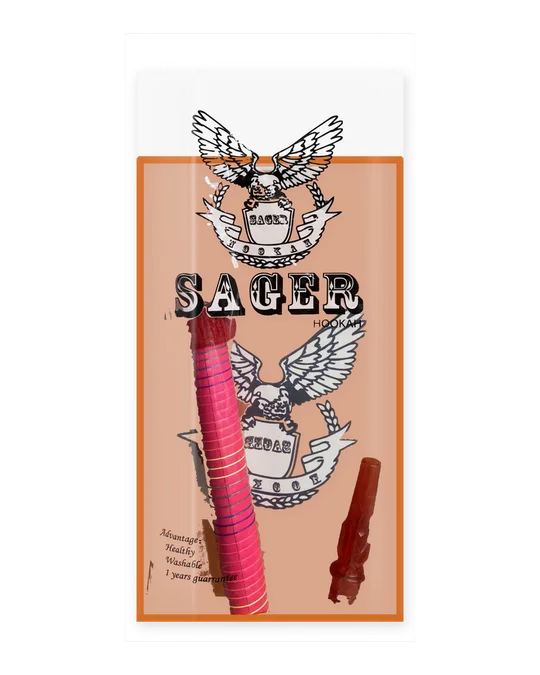
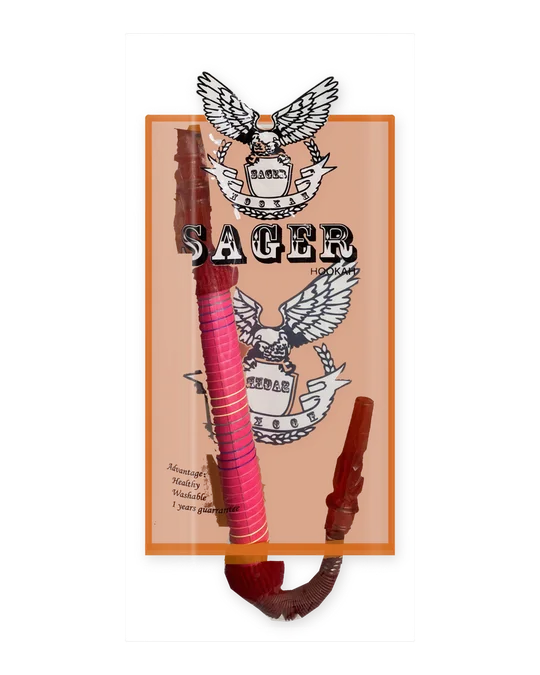
Hoses: clipping fixes on Sager, Super Al Ameer, Zanobia black; light-blue Starbuzz gets a photo
Owner 2026-11-27: some drawn-bag hoses kept old-bag background, cut square, or cut the hose off.
- Sager (OSS-120028): whole hose now (mouthpiece, handle, the bend below the card, far fitting);
  the white top slab was clear bag over the wall and is gone; the eagles stay as print.
- Super Al Ameer (OSS-120006): left edge follows the stem; the print runs under the top seal and
  fades into the bottom seal instead of the photo's square crop lines.
- Zanobia black (OSS-120029): old-bag film beside the card, in the bottom loop and a loose scrap removed.
- Starbuzz light blue (OSS-120032): the teal sibling's cut-out recoloured to the light-blue shade
  sampled from the shop's counter photo (card kept); hose-fix-2026-11-27.sql sets its img, photo
  'own', details.photo 'approved' and drops "no photo of its own yet" from its stock-check note.
Tools: cut.py ink_extra/area_add/drop_bright/drop_final/min_cc, compose.py top_cut/seal_fade
(other 24 configs render byte-identically). Not deployed.

Claude-Session: https://claude.ai/code/session_01E9pd4ZHmcwx6MYD1V7M6Jz

Changed region(s): [[0.237, 0.0933, 0.7704, 0.9333]]

diff --git a/store/tools/catalog/hose_drawnbag/recolour_lb.py b/store/tools/catalog/hose_drawnbag/recolour_lb.py
@@ -1,0 +1,48 @@
+"""Light-blue Starbuzz ribbed (OSS-120032): the teal sibling's cut (IMG_0549, same tube, stem and card) recoloured to the
+light-blue hose's own shade, sampled from the shop's group shot (Star_buzz_are_76.5_inches.jpg) and white-balanced on the
+bag's barcode label: Lab hue about 262, chroma about 18 (the photo has a violet LED cast, so the hue is the midpoint of the white-balanced samples) at the hose's lightness. Only teal/green pixels move; the card stays."""
+import numpy as np, cv2, json, shutil, os
+from pathlib import Path
+from PIL import Image
+WD = Path(os.environ.get("HOSE_WORK", ".")) / "hose-drawnbag"   # the work folder holding cut/ and cfg.d/, as plate.py
+src = np.asarray(Image.open(WD / "cut" / "IMG_0549.png")).copy()
+rgb, A = src[..., :3], src[..., 3]
+L = cv2.cvtColor(rgb, cv2.COLOR_RGB2LAB).astype(np.float32)
+a, b = L[..., 1] - 128, L[..., 2] - 128
+ch = np.hypot(a, b); hue = np.degrees(np.arctan2(b, a)) % 360
+m = (hue > 120) & (hue < 260) & (ch > 2.5)                      # the teal tube and its dark green stem
+pink = (ch > 15) & ((hue < 40) | (hue > 330)) & (A > 128)   # the round Starbuzz card stays as printed
+n, lbl, st, _ = cv2.connectedComponentsWithStats(pink.astype(np.uint8), 8)
+k = 1 + int(np.argmax(st[1:, cv2.CC_STAT_AREA]))
+pts = cv2.findNonZero((lbl == k).astype(np.uint8)); hull = cv2.convexHull(pts)
+card = np.zeros(A.shape, np.uint8); cv2.fillConvexPoly(card, hull, 1)
+x, y, w_, h_ = cv2.boundingRect(hull)
+card = cv2.dilate(card, np.ones((15, 15), np.uint8)) > 0
+ribbon = np.zeros(A.shape, bool); ribbon[y + int(0.6 * h_): y + int(1.08 * h_), max(0, x - int(0.2 * w_)): x + int(1.2 * w_)] = True
+keep = card | (ribbon & (ch < 9))
+m &= ~keep
+stem = m & (L[..., 0] < 110)
+# the stem is one solid part: take its largest dark piece, close it and fill it, so glare chips on it move too
+n2, l2, st2, _ = cv2.connectedComponentsWithStats(stem.astype(np.uint8), 8)
+big = l2 == 1 + int(np.argmax(st2[1:, cv2.CC_STAT_AREA]))
+big = cv2.morphologyEx(big.astype(np.uint8), cv2.MORPH_CLOSE, cv2.getStructuringElement(cv2.MORPH_ELLIPSE, (41, 41))) > 0
+from scipy import ndimage as nd
+stem = nd.binary_fill_holes(big) & (A > 60) & ~keep
+m |= stem
+w = np.maximum(np.clip((ch - 4) / 8, 0, 1), stem.astype(np.float32)) * m
+w = cv2.GaussianBlur(w.astype(np.float32), (0, 0), 1.2)
+H, C = np.radians(262.0), 18.0
+Lt = L[..., 0].copy()
+Ls = cv2.GaussianBlur(L[..., 0], (0, 0), 3)
+Lt = np.where(stem, 75 + np.minimum(L[..., 0], Ls + 12) * 0.7, L[..., 0] * 1.04 + 4)   # glare chips on the stem toned to its body   # the stem is pale translucent blue, not dark
+Cn = np.where(stem, C * 1.1, C * np.clip(ch / 17.0, 0.6, 1.3))
+out = L.copy()
+out[..., 0] = L[..., 0] * (1 - w) + np.clip(Lt, 0, 255) * w
+out[..., 1] = (a * (1 - w) + np.cos(H) * Cn * w) + 128
+out[..., 2] = (b * (1 - w) + np.sin(H) * Cn * w) + 128
+res = cv2.cvtColor(np.clip(out, 0, 255).astype(np.uint8), cv2.COLOR_LAB2RGB)
+Image.fromarray(np.dstack([res, A]), "RGBA").save(WD / "cut" / "SB_LIGHTBLUE.png")
+dst = Path(__file__).parent / "cfg.d" / "SB_LIGHTBLUE.json"
+if not dst.exists():   # framing as the teal sibling; never overwrite a tuned copy
+    shutil.copy(Path(__file__).parent / "cfg.d" / "IMG_0549.json", dst)
+print("stem px", int(stem.sum()), "moved px", int((w > 0.5).sum()))

diff --git a/store/tools/catalog/hose_drawnbag/cut.py b/store/tools/catalog/hose_drawnbag/cut.py
@@ -57,6 +57,8 @@ def cut(name):
     dC = chI - chB
     sh = L.shape
     area = poly_mask(sh, [c["area"]]) if "area" in c else inside
+    if c.get("area_add"):   # print that runs past the hand-read bag edge (onto the fold)
+        area = area | poly_mask(sh, c["area_add"])
 
     colour = (dC > c.get("chroma", 16))
     hue = np.degrees(np.arctan2(LI[..., 2] - 128, LI[..., 1] - 128)) % 360
@@ -85,6 +87,10 @@ def cut(name):
     big = small_cc(ink, c.get("ink_big", 200))
     near = cv2.dilate(big.astype(np.uint8), disk(45)) > 0
     ink = big | (small_cc(ink, 12) & near)
+    for ie in c.get("ink_extra", []):   # print over a shadowed stretch of wall: plain darkness test
+        z = poly_mask(sh, [ie["poly"]])
+        ik = (cv2.GaussianBlur(L, (0, 0), 0.8) < ie.get("L", 110)) & z & (chI < ie.get("C", 30))
+        ink |= small_cc(cv2.morphologyEx(ik.astype(np.uint8), cv2.MORPH_OPEN, disk(1)) > 0, ie.get("min", 60))
     if c.get("ink_within"):
         ink &= poly_mask(sh, c["ink_within"])
     if c.get("ink_thin"):   # only pen-width ink here (a broad dark patch is shadow, not print)
@@ -229,6 +235,11 @@ def cut(name):
 
     fill = poly_mask(sh, c["fill"]) if c.get("fill") else np.zeros(sh, bool)
     drop = poly_mask(sh, c["drop"]) if c.get("drop") else np.zeros(sh, bool)
+    for db in c.get("drop_bright", []):   # wall/film seen through the bag next to a dark hose: drop only what is bright
+        z = poly_mask(sh, [db["poly"]])
+        br = cv2.GaussianBlur(L, (0, 0), db.get("blur", 3)) > db.get("L", 140)
+        br = cv2.morphologyEx(br.astype(np.uint8), cv2.MORPH_OPEN, disk(db.get("open", 4))) > 0
+        drop |= z & br
     if c.get("fill_noborder") and c.get("fill"):   # the bag's own orange border is redrawn; keep it out of hose fills
         fill &= ~((chI > 40) & (hue > 45) & (hue < 68))
     solid = (colour | ink | white | band | fill) & area & ~drop
@@ -321,6 +332,12 @@ def cut(name):
             alpha = rgba[..., 3].astype(np.float32) / 255
         if c["warp"].get("clip_x"):
             x0_, x1_ = c["warp"]["clip_x"]; rgba[:, :x0_] = 0; rgba[:, x1_:] = 0; alpha = rgba[..., 3].astype(np.float32) / 255
+    if c.get("min_cc"):   # stray specks (shadow, wall glints) that are not part of the product
+        keep = small_cc(rgba[..., 3] > 60, c["min_cc"])
+        keep = cv2.dilate(keep.astype(np.uint8), disk(3)) > 0
+        rgba[~keep, 3] = 0
+    for dp in c.get("drop_final", []):   # final-frame polygons removed (after any warp)
+        rgba[poly_mask(rgba.shape[:2], [dp]), 3] = 0
     Image.fromarray(rgba, "RGBA").save(OUT / f"{name}.png")
     if c.get("band") or c.get("gc"):   # overlay of the tube outlines on the photo
         ov = Image.fromarray(I.astype(np.uint8)); dr = ImageDraw.Draw(ov)

diff --git a/store/tools/catalog/hose_drawnbag/compose.py b/store/tools/catalog/hose_drawnbag/compose.py
@@ -80,11 +80,27 @@ def compose(name):
     s = min(iw / cut.width, ih / cut.height)
     prod = cut.resize((round(cut.width * s), round(cut.height * s)), Image.LANCZOS)
     P = Image.new("RGBA", (W, H), (0, 0, 0, 0))
+    if c.get("top_cut"):   # the photo cuts the product off at the top: it runs up under the header seal
+        ih = oh - seal * 0.5 - mb
+        s = min(iw / cut.width, ih / cut.height)
+        prod = cut.resize((round(cut.width * s), round(cut.height * s)), Image.LANCZOS)
     bot = oy + oh - (LOOK["bot_seal_h"] * oh * 0.5 if c.get("bottom_cut") else mb)
-    if not c.get("bottom_cut"):   # a short product (a coil) sits in the middle of the bag, not slumped at its foot
+    if c.get("top_cut"):
+        bot = oy + seal * 0.5 + prod.height
+    elif not c.get("bottom_cut"):   # a short product (a coil) sits in the middle of the bag, not slumped at its foot
         bot -= (ih - prod.height) / 2
-    P.alpha_composite(prod, (round(ox + (ow - prod.width) / 2), round(bot - prod.height)))
+    px, py = round(ox + (ow - prod.width) / 2), round(bot - prod.height)
+    P.alpha_composite(prod, (px, py))
+    rot = c.get("rotate", 0)
+    (OUT / f"{name}-map.json").write_text(json.dumps(dict(l=int(l), t=int(t), s=s, px=px, py=py, K=K, rotate=rot)))
     P = np.asarray(P).astype(np.float32) / 255
+    if c.get("seal_fade"):   # a product the photo cuts off fades into the seal it runs under, not a square photo edge
+        f = c["seal_fade"] * K
+        yy = np.arange(H, dtype=np.float32)[:, None]
+        if c.get("top_cut"):
+            P[..., 3] *= np.clip((yy - py) / f, 0, 1)
+        if c.get("bottom_cut"):
+            P[..., 3] *= np.clip((py + prod.height - yy) / f, 0, 1)
     Y, X = np.mgrid[0:H, 0:W].astype(np.float32) + 0.5
     x0, y0, x1, y1 = ox, oy, ox + ow, oy + oh
     sd = rrect_sdf(X, Y, x0, y0, x1, y1, LOOK["radius"] * ow)
